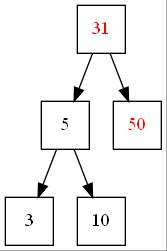
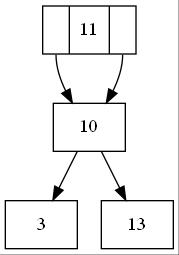
TERMINADO URL IMAGEN LISTO

diff --git a/src/main/java/com/proyecto2/Pyramid/Modelos/Arbol.java b/src/main/java/com/proyecto2/Pyramid/Modelos/Arbol.java
@@ -47,7 +47,6 @@ public class Arbol {
     y.altura = max(alturAvl(y.izquierda), alturAvl(y.derecha)) + 1;
     return y;
   }
-
   // Get balance factor of a node
   int getFactorEquilibrio(Nodo N) {
     if (N == null) {
@@ -55,7 +54,6 @@ public class Arbol {
     }
     return alturAvl(N.izquierda) - alturAvl(N.derecha);
   }
-
   // Insert a
   // node--------------------------------------------------------------------------
   Nodo insertarNodo(Nodo node, int item, int valor, String carta) {
@@ -72,8 +70,8 @@ public class Arbol {
       return node;
     }
 
-    // Update the balance factor of each node
-    // And, balance the tree
+    // Actualizacion del factor de balance de cada nodo
+    // y, balace del arbol
     node.altura = 1 + max(alturAvl(node.izquierda), alturAvl(node.derecha));
     int balanceFactor = getFactorEquilibrio(node);
     if (balanceFactor > 1) {
@@ -105,10 +103,10 @@ public class Arbol {
     return current;
   }
 
-  // Delete a node
+  // Metodo de eliminar nodo
   Nodo eliminarNodo(Nodo raiz, int item) {
 
-    // Find the node to be deleted and remove it
+    // Encontrar el nodo a eliminar y eliminarlo
     if (raiz == null) {
       return raiz;
     }
@@ -140,7 +138,7 @@ public class Arbol {
       return raiz;
     }
 
-    // Update the balance factor of each node and balance the tree
+    // actualizacion del factor de equilibrico y balancear el arbolito
     raiz.altura = max(alturAvl(raiz.izquierda), alturAvl(raiz.derecha)) + 1;
     int balanceFactor = getFactorEquilibrio(raiz);
     if (balanceFactor > 1) {
@@ -165,6 +163,10 @@ public class Arbol {
   public void graficar(String path) {
     raiz.graficar(path);
 }
+  /**Metodos de PRE,POST y IN Orden los privados es el metodo recursivo
+   * para hacer el recorrido y los publicos mandan la raiz y devuelven un
+   * Hashmap
+   */
   public HashMap<Integer, String> preOrden(Nodo node) {
     if (node != null) {
       System.out.println(key+" "+node.carta);
@@ -175,7 +177,6 @@ public class Arbol {
     }   
     return mapa;
   }
-
   private HashMap<Integer, String> inOrden(Nodo node) {
     if (node != null) {
       inOrden(node.izquierda);
@@ -187,7 +188,6 @@ public class Arbol {
     }
     return mapa;
   }
-
   private HashMap<Integer, String> postOrden(Nodo node) {
     if (node != null) {
       postOrden(node.izquierda);
@@ -199,7 +199,6 @@ public class Arbol {
     }
     return mapa;
   }
-
   public HashMap<Integer, String> preOrden() {
     mapa.clear();
     key = 0;
@@ -219,7 +218,7 @@ public class Arbol {
     return postOrden(this.raiz);
   }
 
-  // Print the tree
+  // Metodo para Imprmir el Arbol
   public void imprimir(Nodo currPtr, String indent, boolean last) {
     if (currPtr != null) {
       System.out.print(indent);
@@ -237,6 +236,9 @@ public class Arbol {
   }
 
   // -------------------------------------
+  /** Metodos para verificar si existe el nodo en 
+   * el arbol
+   */
   public boolean existe(int busqueda) {
     return existe(this.raiz, busqueda);
   }
@@ -286,13 +288,11 @@ public class Arbol {
     downlevel = getLevelUtil(node.derecha, data, level + 1);
     return downlevel;
   }
-
   /* Returns level of given data value */
   int getLevel(int data) {
     return getLevelUtil(this.raiz, data, 1);
   }
   // mandar carta hashmap
-
   private HashMap<Integer, String> encontrarCartaHashmap(Nodo node, int nivel) {
 
     if (node != null) {

diff --git a/src/main/java/com/proyecto2/Pyramid/Modelos/Nodo.java b/src/main/java/com/proyecto2/Pyramid/Modelos/Nodo.java
@@ -67,7 +67,7 @@ public class Nodo {
     private String getCodigoGraphviz() {
         return "digraph grafica{\n"
                 + "rankdir=TB;\n"
-                + "node [shape =square, style=filled, fillcolor=gray100];\n"
+                + "node [shape =record, style=filled, fillcolor=gray100];\n"
                 + getCodigoInterno()
                 + "}\n";
     }
@@ -80,26 +80,28 @@ public class Nodo {
      * @return
      */
     private String getCodigoInterno() {
-        String etiqueta;
+        
+                String etiqueta;
+       
         if (izquierda == null && derecha == null) {
             // treboles
             if (item >= 0 && item <= 20 || item >= 60 && item <= 73) {
-                etiqueta = "nodo" + item + " [ label =\"" + item + "\",fontcolor=black];\n";
-            }else {etiqueta = "nodo" + item + " [ label =\"" + item + "\",fontcolor=red];\n";}
+                etiqueta = "nodo" + valor + " [ label =\"" + valor + "\",fontcolor=black];\n";
+            }else {etiqueta = "nodo" + valor + " [ label =\"" + valor + "\",fontcolor=red];\n";}
 
         } else {
             if (item >= 0 && item <= 20 || item >= 60 && item <= 73) {
-                etiqueta = "nodo" + item + " [ label =\"" + item + "\",fontcolor=black];\n";
-            }else { etiqueta = "nodo" + item + " [ label =\"" + item + "\",fontcolor=red];\n";}
+                etiqueta = "nodo" + valor + " [ label =\"" + valor + "\",fontcolor=black];\n";
+            }else { etiqueta = "nodo" + valor + " [ label =\"" + valor + "\",fontcolor=red];\n";}
            
         }
         if (izquierda != null) {
             etiqueta = etiqueta + izquierda.getCodigoInterno()
-                    + "nodo" + item + ":C0->nodo" + izquierda.item + "\n";
+                    + "nodo" + valor + ":C0->nodo" + izquierda.valor + "\n";
         }
         if (izquierda != null) {
             etiqueta = etiqueta + derecha.getCodigoInterno()
-                    + "nodo" + item + ":C1->nodo" + derecha.item + "\n";
+                    + "nodo" + valor + ":C1->nodo" + derecha.valor + "\n";
         }
         return etiqueta;
     }

diff --git a/src/main/java/com/proyecto2/Pyramid/Controladores/ServicioUsuario.java b/src/main/java/com/proyecto2/Pyramid/Controladores/ServicioUsuario.java
@@ -8,9 +8,13 @@ import com.proyecto2.Pyramid.Modelos.Arbol;
 import com.proyecto2.Pyramid.Modelos.Operaciones;
 import com.proyecto2.Pyramid.Modelos.Niveles;
 
+import java.io.IOException;
+import java.io.RandomAccessFile;
 import java.util.ArrayList;
 import java.util.HashMap;
 import java.util.List;
+
+
 
 import org.springframework.http.HttpStatus;
 import org.springframework.http.ResponseEntity;
@@ -19,6 +23,8 @@ import org.springframework.web.bind.annotation.RequestBody;
 import org.springframework.web.bind.annotation.RequestMapping;
 import org.springframework.web.bind.annotation.RequestMethod;
 import org.springframework.web.bind.annotation.RestController;
+import org.springframework.http.HttpHeaders;
+import org.springframework.http.MediaType;
 
 /**
  *
@@ -121,10 +127,22 @@ public class ServicioUsuario {
 
    // Game/status-avltree
    @RequestMapping(value = "/status", method = RequestMethod.GET)
-   public ResponseEntity <String> generarImagen() {
+   public  ResponseEntity <HashMap<String, String>> generarImagen() {
 
       opNiveles.graficarArbol(tree);
-      return new ResponseEntity<String> (".url", HttpStatus.OK);
+      //opNiveles.graficarJson(tree);
+      return new ResponseEntity<HashMap<String, String>> (opNiveles.graficarJson(tree), HttpStatus.OK);
    }
+   @RequestMapping(value = "/tree",method = RequestMethod.GET)
+    public ResponseEntity<byte[]> getImage() throws IOException {
+    RandomAccessFile f = new RandomAccessFile("C:/Users/emili/OneDrive/Escritorio/PROYECTOS/EstructuraDeDatos/Pyramid EDD/Proyecto2EDD/tree.jpg", "r");
+    byte[] b = new byte[(int)f.length()];
+    f.readFully(b);
+    final HttpHeaders headers = new HttpHeaders();
+    headers.setContentType(MediaType.IMAGE_PNG);
+    return new ResponseEntity<byte[]>(b, headers, HttpStatus.CREATED);
+
+}
+
 
 }

diff --git a/src/main/java/com/proyecto2/Pyramid/Modelos/Operaciones.java b/src/main/java/com/proyecto2/Pyramid/Modelos/Operaciones.java
@@ -12,7 +12,7 @@ import java.util.List;
  * @author emili
  */
 public class Operaciones {
-
+    //variables
     int num, item;
     String carta;
     String figura;
@@ -35,6 +35,7 @@ public class Operaciones {
         this.insert = insert;
     }
 
+   
     public String getDelete_1() {
         return delete_1;
     }
@@ -67,6 +68,7 @@ public class Operaciones {
         this.figura = figura;
     }
 
+     /*Metodos que reciben el request del Start*/
     public Boolean recibirPost(List<String> result, Arbol tree) {
 
         for (int i = 0; i < result.size(); ++i) {
@@ -84,7 +86,7 @@ public class Operaciones {
         return true;
 
     }
-
+        /*Metodos que reciben el request del elimnar*/
     public int ingresarDelete(String d1, String d2, Arbol tree) {
         /// ver si existe
         //boolean aceptado=false;
@@ -152,7 +154,7 @@ public class Operaciones {
         }
         return 1; //406 cualquier otro error
     }
-
+     /*Metodos que reciben el request del add*/
     public Boolean recibirInsert(String insert, Arbol tree) {
         obtenerValores(insert);
         if (tree.existe(this.item) == false) {
@@ -164,13 +166,12 @@ public class Operaciones {
         }
 
     }
-
+     /*Metodos que clasifica el valor de las cartas */
     public void obtenerValores(String carta) {
 
         for (int i = 0; i < carta.length(); i++) {
             // ver si es un numero
 
-            // System.out.println("char" +carta.charAt(i));
             if (Character.toString(carta.charAt(i)).matches("[0-9?]")) {
 
                 if (carta.contains("10")) {

diff --git a/src/main/java/com/proyecto2/Pyramid/Modelos/Niveles.java b/src/main/java/com/proyecto2/Pyramid/Modelos/Niveles.java
@@ -4,6 +4,7 @@ import java.util.HashMap;
 
 public class Niveles {
     String carta;
+    /**Estos hasmap devuelven el request de los metodos  */
     HashMap<Integer, String> mapa = new HashMap<Integer, String>();
 
     public HashMap<Integer, String> recibirNivel(int nivel, Arbol tree) {
@@ -34,5 +35,12 @@ public class Niveles {
     public void graficarArbol(Arbol tree)
     {
         tree.graficar("tree.jpg");
+    }
+    public HashMap<String, String> graficarJson(Arbol tree)
+    {
+        HashMap<String, String> mapa = new HashMap<String, String>();
+        mapa.put("url","https://5663-2803-d100-e000-f79-1406-d160-70e9-7c0c.ngrok.io/Game/tree");
+        return mapa;
+
     }
 }
